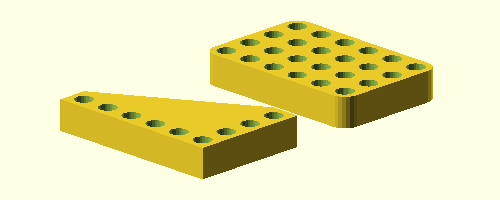
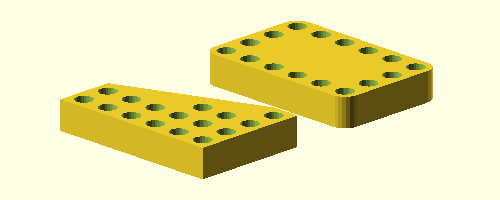
better base functionality like plate

diff --git a/README.rst b/README.rst
@@ -109,15 +109,15 @@ base
 
 .. code:: c++
 
-  module cube_base(x, y, h=1, quad=true, fill_holes=true);
-  module cylinder_base(x, y, h=1, quad=true, fill_holes=true);
+  module cube_base(x, y, x2=0, h=1, fill_holes=true);
+  module cylinder_base(x, y, x2=0, h=1, fill_holes=true);
 
-Base modules can create two type of base parts. First is like frame with fill, second is only triangle.
+Base modules can create two type of base parts. First is like frame with fill, second is trapezoid.
 
-quad : bool
-  If quad is false, triangle will be generated. Quad is **true** by default.
+x2 : number
+  If is **0**, which is default, that will create cuboid with parallel sides, but when is another than x, that create trapezoid.
 fill_holes : bool
-  If is set to **true**, which is default, base will be full of holes. Otherwise only squared arms will have holes.
+  If is set to **true**, which is default, base will be full of holes. Otherwise only squared arms will have holes. Side holes are not in trapezoidal side, and all holes ends in front of this side.
 
 plate
 `````
